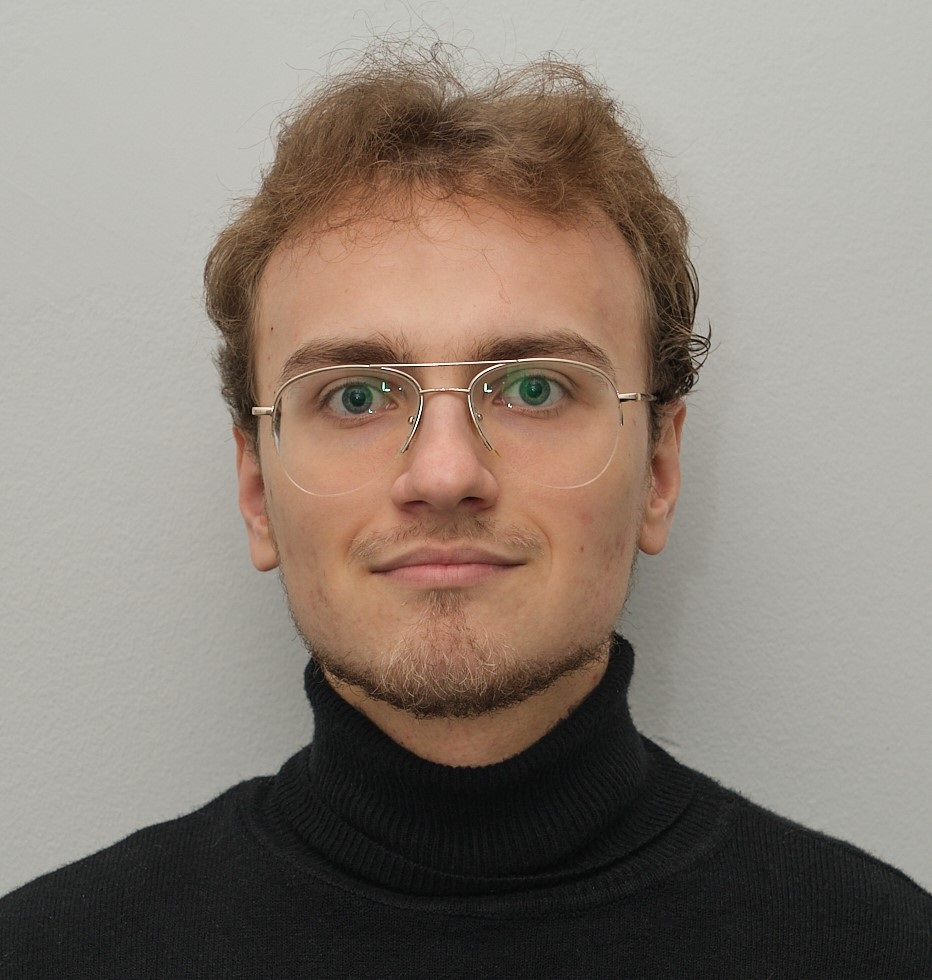
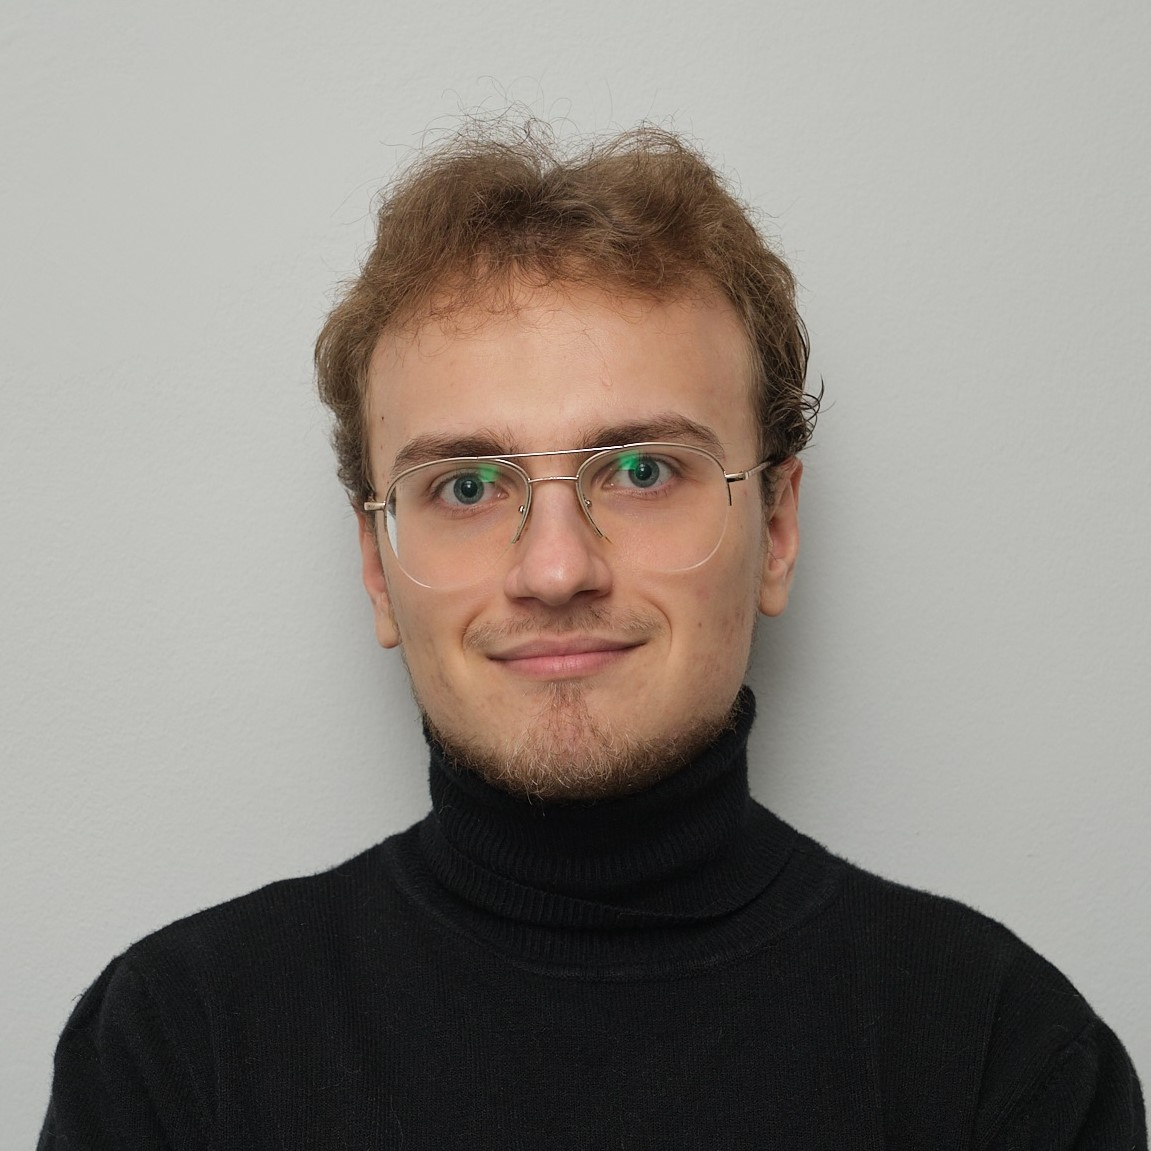
changed description and profile picture

Changed region(s): [[0.0622, 0.0306, 0.9646, 0.8878], [0.0, 0.8878, 0.0622, 1.0], [0.9646, 0.8878, 1.0, 1.0]]

diff --git a/src/features/personalHomepage/Header/index.js b/src/features/personalHomepage/Header/index.js
@@ -30,8 +30,11 @@ const Header = () => {
         <HeaderPreview>THIS IS</HeaderPreview>
         <HeaderName>Marcin Augun</HeaderName>
         <HeaderDescription>
-          👨🏻💻 I’m a passionate Frontend Developer in love with React, currently
-          looking for new job opportunities.
+          I am searching for a job as junior frontend developer, where I will be
+          able do develop and gain professional experience. I am passionate
+          about creating beautiful and intuitive user interfaces in React. I am
+          constantly seeking out new design trends and coding techniques to
+          ensure that my work is both modern and efficient.
         </HeaderDescription>
         <Button onClick={onButtonClick}>
           <EnvelopeImage

diff --git a/src/features/personalHomepage/Header/styled.js b/src/features/personalHomepage/Header/styled.js
@@ -54,6 +54,7 @@ export const HeaderDescription = styled.p`
   line-height: 1.4;
   letter-spacing: 0.05em;
   margin: 35px 0 32px;
+  max-width: 600px;
 
   @media (max-width: ${bpMobile}px) {
     font-size: 17px;
